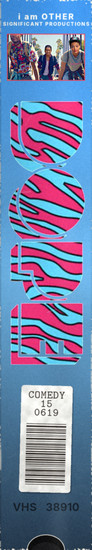
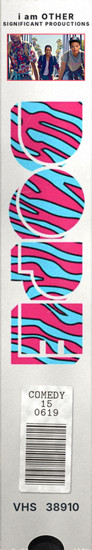
Spine grounds: Lord of War charcoal, Dope and TMNT white
Lord of War's silver logo was lost on white; Dope's and the Turtles'
spines go white at Ian's pick, with dark studio, logo and foot inks.

Claude-Session: https://claude.ai/code/session_01RnhGoNaJVdjvBcLcgvnaC9

diff --git a/spinegen/vault.py b/spinegen/vault.py
@@ -4501,11 +4501,11 @@ std('kiss-kiss-bang-bang-2005', ('grad', [(0, (246, 246, 246)), (.6, (226, 230, 
     photo=ph(0.5, 0.8, 0.86, 0.45), pb=(220, 60, 30), lg=(30, 40, 70), lw=.55, order='LPTCF', credit=['ROBERT DOWNEY JR.', 'VAL KILMER'], ccol=(30, 40, 70),
     ft='e', fcol=(30, 40, 70), fin=MINT, seed=2005)
 
-# Lord of War (2005): the poster's white, the film's own title logo (Ian's image, logos/lord-of-war-2005-title.png), Nicolas Cage's face made of bullets
-std('lord-of-war-2005', ('grad', [(0, (240, 240, 240)), (.6, (216, 216, 216)), (1, (100, 100, 100))]), (40, 40, 40),
+# Lord of War (2005): charcoal (the silver logo was lost on the poster's white, Ian asked for a darker spine), the film's own title logo (Ian's image, logos/lord-of-war-2005-title.png), Nicolas Cage's face made of bullets
+std('lord-of-war-2005', ('grad', [(0, (52, 52, 56)), (.6, (26, 26, 28)), (1, (8, 8, 10))]), (226, 226, 226),
     Pic('logos/lord-of-war-2005-title.png', 102),
-    photo=ph(0.5, 0.5, 0.86, 0.85), pb=(40, 40, 40), lg=(40, 40, 40), lw=.55, order='LPTF',
-    ft='c', fcol=(40, 40, 40), fin=MINT, seed=2005)
+    photo=ph(0.5, 0.5, 0.86, 0.85), pb=(190, 30, 30), lg=WHT, lw=.55, order='LPTF',
+    ft='c', fcol=(210, 210, 210), fin=MINT, seed=2005)
 
 # Madagascar (2005): DreamWorks (PDI), a slipcase; the beach sky, the film's own title logo (Ian's image, logos/madagascar-2005-title.png), Alex, Marty, Gloria and Melman
 std('madagascar-2005', ('grad', [(0, (60, 170, 230)), (.5, (90, 190, 230)), (1, (230, 200, 130))]), (240, 130, 30),
@@ -6196,11 +6196,11 @@ std('tales-of-the-grim-sleeper-2014', ('grad', [(0, (50, 34, 14)), (.6, (12, 8, 
     photo=ph(0.5, 0.45, 0.86, 0.85), pb=(240, 150, 40), lg=WHT, lw=.5, order='LPTCF', credit=['A FILM BY', 'NICK BROOMFIELD'], ccol=WHT,
     ft='b', fcol=(220, 200, 180), fin=MINT, seed=2014)
 
-# Teenage Mutant Ninja Turtles (2014): Paramount (Platinum Dunes), the city at night, the film's own title logo (Ian's image, logos/teenage-mutant-ninja-turtles-2014-title.png, tinted the turtles' green from the poster at Ian's ask), the four turtles
-std('teenage-mutant-ninja-turtles-2014', ('grad', [(0, (50, 80, 120)), (.5, (22, 30, 40)), (1, (8, 8, 10))]), (220, 226, 232),
+# Teenage Mutant Ninja Turtles (2014): Paramount (Platinum Dunes), white (Ian's pick), the film's own title logo (Ian's image, logos/teenage-mutant-ninja-turtles-2014-title.png, tinted the turtles' green from the poster at Ian's ask), the four turtles
+std('teenage-mutant-ninja-turtles-2014', ('grad', [(0, (248, 247, 244)), (.6, (236, 235, 230)), (1, (200, 198, 192))]), (30, 40, 26),
     Pic('logos/teenage-mutant-ninja-turtles-2014-title.png', 170), tgap=6,
-    photo=ph(0.5, 0.55, 0.86, 0.85), pb=(80, 160, 60), lg=WHT, lw=.5, order='LPTSF', stick=PRC(['$3.49', 'ACTION']),
-    ft='a', fcol=(220, 220, 200), fin=MINT, seed=2014)
+    photo=ph(0.5, 0.55, 0.86, 0.85), pb=(80, 160, 60), lg=(30, 40, 26), lw=.5, order='LPTSF', stick=PRC(['$3.49', 'ACTION']),
+    ft='a', fcol=(30, 40, 26), fin=MINT, seed=2014)
 
 # The Amazing Spider-Man 2 (2014): Columbia, a slipcase; the city's blue, the film's own title logo (Ian's image, logos/the-amazing-spider-man-2-2014-title.png), Spider-Man swinging
 std('the-amazing-spider-man-2-2014', ('grad', [(0, (60, 110, 170)), (.6, (16, 30, 50)), (1, (0, 2, 6))]), (220, 226, 232),
@@ -6297,10 +6297,10 @@ std('crimson-peak-2015', ('grad', [(0, (30, 60, 100)), (.6, (8, 16, 30)), (1, (0
     photo=ph(0.5, 0.45, 0.86, 1.0), pb=(200, 30, 40), lg=WHT, lw=.5, order='LPTCF', credit=['A GUILLERMO DEL TORO FILM'], ccol=WHT,
     ft='c', fcol=(200, 210, 230), fin=MINT, seed=2015)
 
-# Dope (2015): Open Road (no logo file; production companies from IMDb), the poster's sky blue, the film's own title logo (Ian's image, logos/dope-2015-title.png, its white ground keyed out, at Ian's ask), Malcolm and friends on their bikes under the palms
-std('dope-2015', ('grad', [(0, (60, 140, 220)), (.5, (110, 180, 230)), (1, (40, 60, 80))]), WHT,
+# Dope (2015): Open Road (no logo file; production companies from IMDb), white (Ian's pick over the poster's sky blue), the film's own title logo (Ian's image, logos/dope-2015-title.png, its white ground keyed out, at Ian's ask), Malcolm and friends on their bikes under the palms
+std('dope-2015', ('grad', [(0, (248, 247, 244)), (.6, (236, 235, 230)), (1, (200, 198, 192))]), (30, 30, 34),
     Pic('logos/dope-2015-title.png', 170),
-    photo=ph(0.5, 0.72, 0.86, 0.6), pb=(240, 60, 80), lg=WHT, lw=.5, order='lPTSF', studio=['i am OTHER', 'SIGNIFICANT PRODUCTIONS'], scol=WHT, stick=BAR('15 0619', top='COMEDY', fill=(240, 240, 236)),
+    photo=ph(0.5, 0.72, 0.86, 0.6), pb=(240, 60, 80), lg=(30, 30, 34), lw=.5, order='lPTSF', studio=['i am OTHER', 'SIGNIFICANT PRODUCTIONS'], scol=(30, 30, 34), stick=BAR('15 0619', top='COMEDY', fill=(240, 240, 236)),
     ft='b', fcol=(20, 30, 40), fin=MINT, seed=2015)
 
 # Ex Machina (2015): A24 (DNA Films), the poster's black, its white ex machina lifted off the red plate onto the same red, Ava in her mesh
